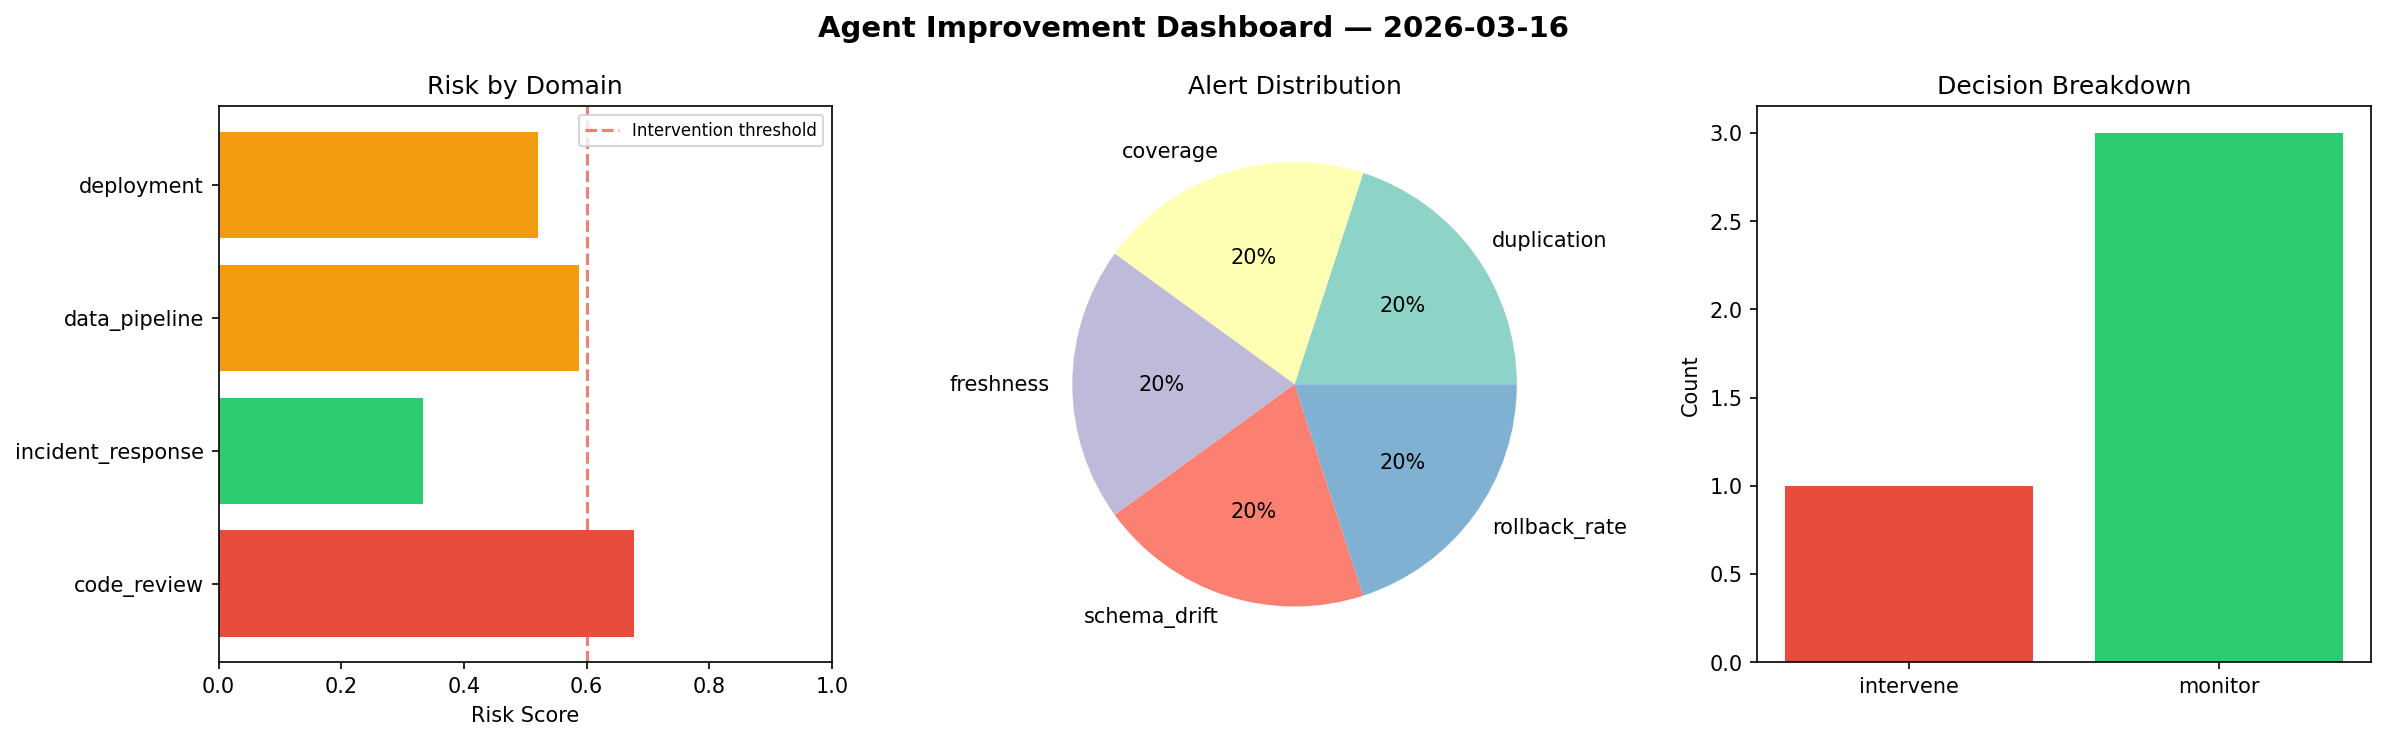
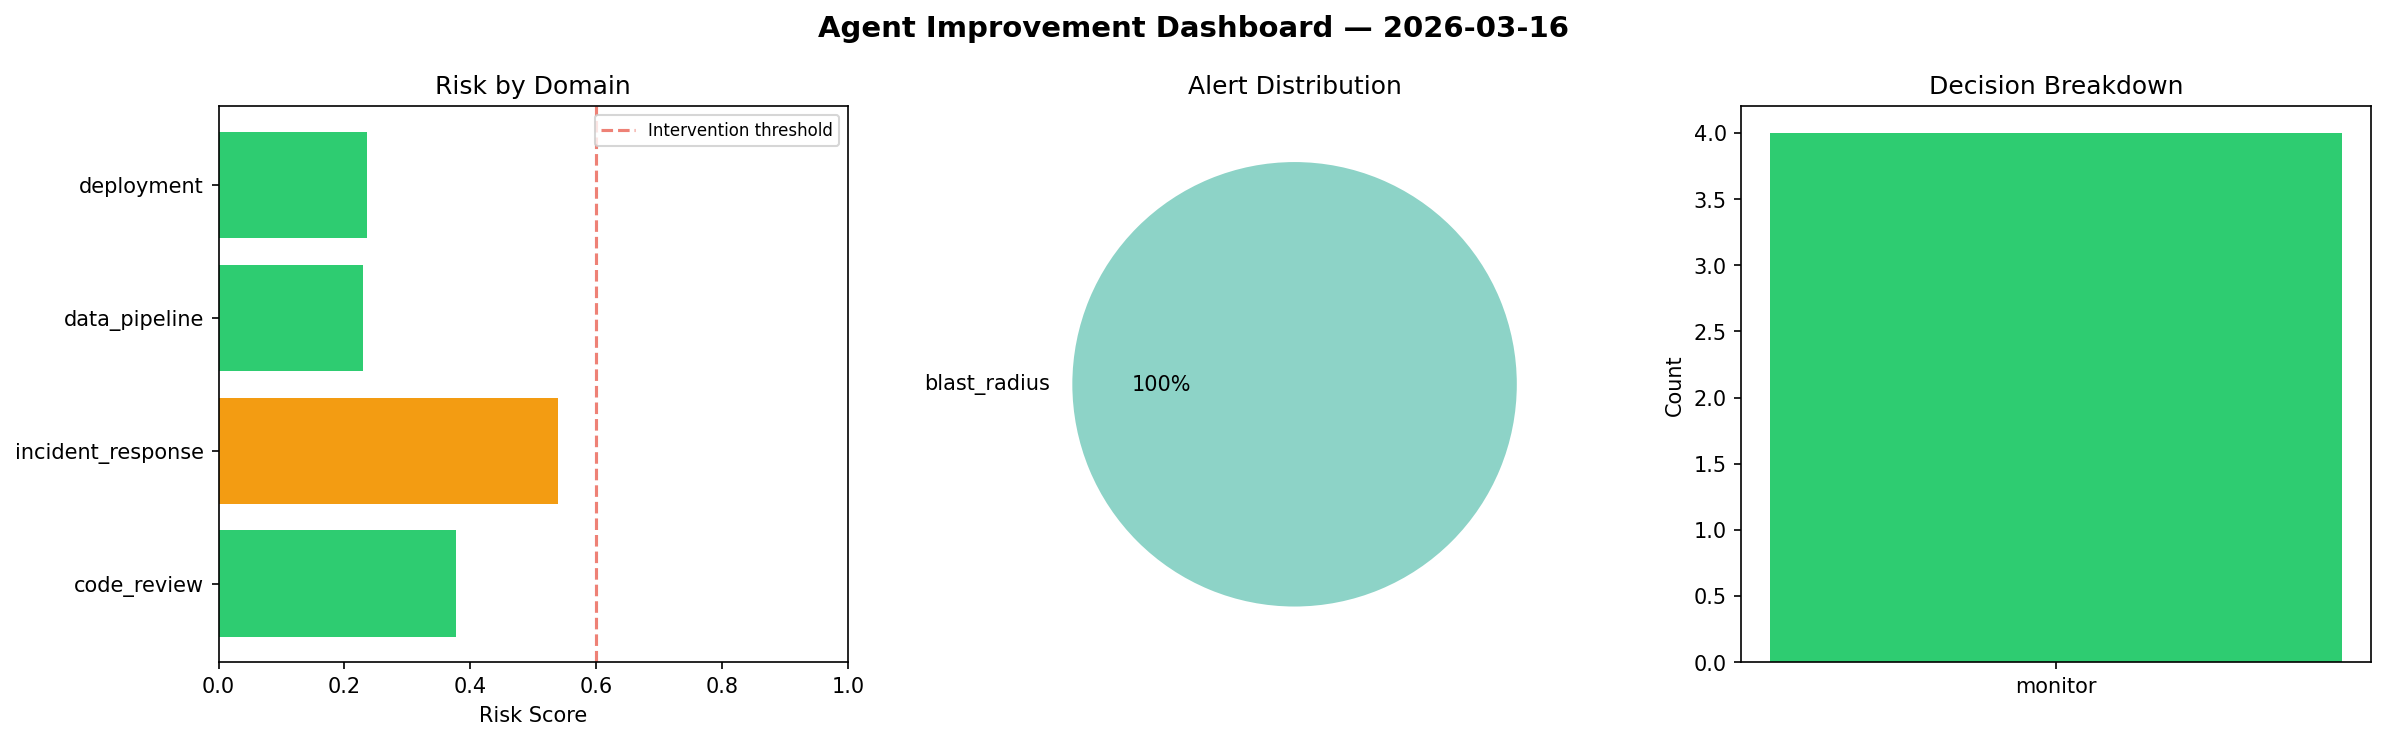
agent-improvement: daily cycle 2026-03-16T15:20

diff --git a/logs/2026-03-16.md b/logs/2026-03-16.md
@@ -1,6 +1,6 @@
 # Agent Improvement Report — 2026-03-16
 
-**Cycle ID:** `9c901648` | **Avg Risk:** 0.5301 | **Interventions:** 1/4
+**Cycle ID:** `1f9dd9ac` | **Avg Risk:** 0.3453 | **Interventions:** 0/4
 
 ![Dashboard](2026-03-16_dashboard.png)
 
@@ -10,18 +10,18 @@
 
 | Domain | Risk Score | Decision | Alerts |
 |--------|-----------|----------|--------|
-| code_review | 0.6782 | intervene | duplication, coverage |
-| incident_response | 0.3327 | monitor | none |
-| data_pipeline | 0.5879 | monitor | freshness, schema_drift |
-| deployment | 0.5217 | monitor | rollback_rate |
+| code_review | 0.3771 | monitor | none |
+| incident_response | 0.5394 | monitor | blast_radius |
+| data_pipeline | 0.2292 | monitor | none |
+| deployment | 0.2353 | monitor | none |
 
 ## Delta vs Yesterday
 
 | Domain | Today | Yesterday | Change |
 |--------|-------|-----------|--------|
-| code_review | 0.6782 | 0.5611 | 📈 20.9% |
-| incident_response | 0.3327 | 0.4452 | 📉 -25.3% |
-| data_pipeline | 0.5879 | 0.2173 | 📈 170.5% |
-| deployment | 0.5217 | 0.6274 | 📉 -16.8% |
+| code_review | 0.3771 | 0.5611 | 📉 -32.8% |
+| incident_response | 0.5394 | 0.4452 | 📈 21.2% |
+| data_pipeline | 0.2292 | 0.2173 | 📈 5.5% |
+| deployment | 0.2353 | 0.6274 | 📉 -62.5% |
 
 **Refinement:** `{'adjustment': 'maintain', 'trend': 'improving', 'window': 4}`
